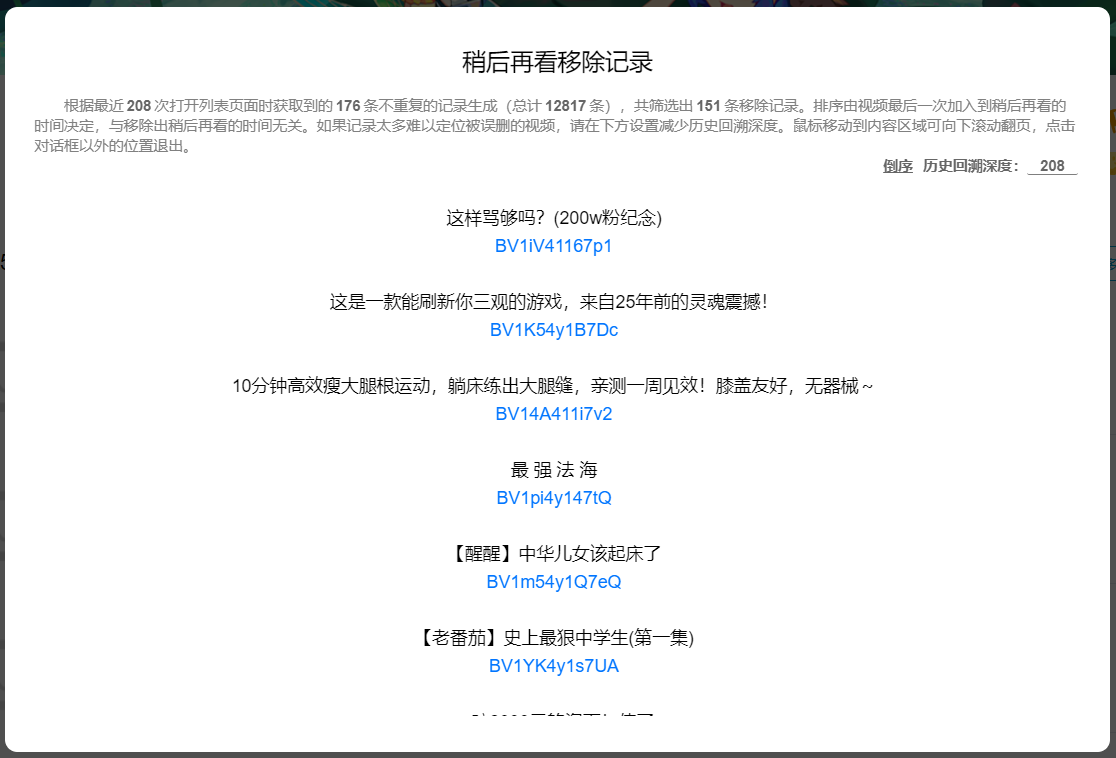
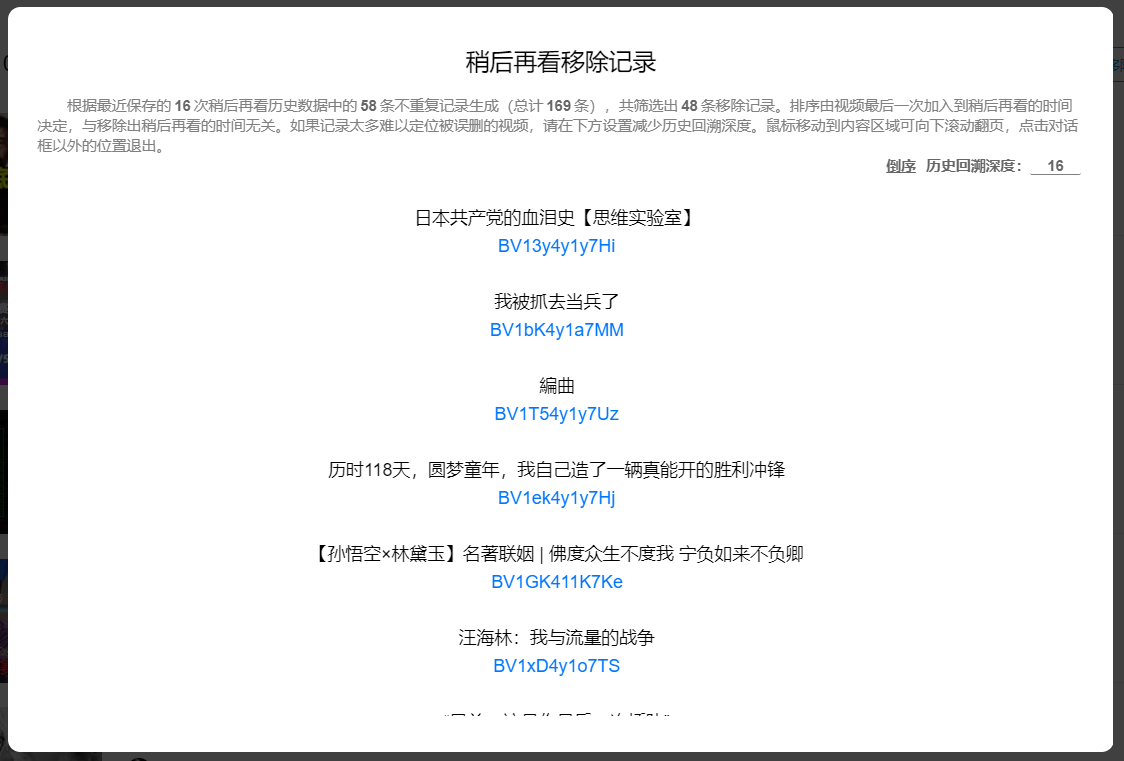
B站稍后再看功能增强
* 明确【稍后再看列表数据】和【稍后再看历史数据】这两个概念，在代码以及 UI 上进行统一
* 配置的极值也编码进 configMap 中
* 对稍后再看列表数据缓存有效期的取值范围进行约束

diff --git a/BilibiliWatchlaterPlus/BilibiliWatchlaterPlus.js b/BilibiliWatchlaterPlus/BilibiliWatchlaterPlus.js
@@ -1,6 +1,6 @@
 // ==UserScript==
 // @name            B站稍后再看功能增强
-// @version         4.7.0.20200922
+// @version         4.7.1.20200923
 // @namespace       laster2800
 // @author          Laster2800
 // @description     与稍后再看功能相关，一切你能想到和想不到的功能
@@ -162,9 +162,9 @@
    * @property {openHeaderMenuLink} openHeaderMenuLink 顶栏弹出菜单链接点击行为
    * @property {menuScrollbarSetting} menuScrollbarSetting 弹出菜单的滚动条设置
    * @property {boolean} removeHistory 稍后再看移除记录
-   * @property {removeHistorySavePoint} removeHistorySavePoint 保存稍后再看数据的时间点
+   * @property {removeHistorySavePoint} removeHistorySavePoint 保存稍后再看历史数据的时间点
    * @property {boolean} removeHistoryFuzzyCompare 开启模糊比对模式以舍弃重复数据
-   * @property {number} removeHistorySaves 稍后再看数据保存次数
+   * @property {number} removeHistorySaves 稍后再看历史数据保存次数
    * @property {number} removeHistorySearchTimes 历史回溯深度
    * @property {fillWatchlaterStatus} fillWatchlaterStatus 填充稍后再看状态
    * @property {boolean} videoButton 视频播放页稍后再看状态快速切换
@@ -187,6 +187,8 @@
    * @property {'checked'|'value'} attr 对应 `DOM` 节点上的属性
    * @property {boolean} [manual] 配置保存时是否需要手动处理
    * @property {boolean} [needNotReload] 配置改变后是否不需要重新加载就能生效
+   * @property {number} [min] 最小值
+   * @property {number} [max] 最大值
    * @property {number} [configVersion] 涉及配置更改的最后配置版本
    */
   /**
@@ -196,9 +198,9 @@
    */
   /**
    * @async
-   * @callback watchlaterListData 通过懒加载方式获取当前稍后再看列表数据
+   * @callback watchlaterListData 通过懒加载方式获取稍后再看列表数据
    * @param {boolean} [reload] 是否重新加载稍后再看列表数据
-   * @returns {Promise<GMObject_data_item0[]>} 当前稍后再看数据
+   * @returns {Promise<GMObject_data_item0[]>} 稍后再看列表数据
    */
   /**
    * `api_queryWatchlaterList` 返回数据中的视频单元
@@ -218,8 +220,8 @@
    */
   /**
    * @typedef GMObject_data
-   * @property {removeHistoryData} removeHistoryData 为生成移除记录而保存的稍后再看数据
-   * @property {watchlaterListData} watchlaterListData 当前稍后再看数据
+   * @property {removeHistoryData} removeHistoryData 为生成移除记录而保存的稍后再看历史数据
+   * @property {watchlaterListData} watchlaterListData 当前稍后再看列表数据
    */
   /**
    * @callback api_videoInfo
@@ -250,9 +252,7 @@
    */
   /**
    * @typedef GMObject_const
-   * @property {number} rhsMin 稍后再看数据最小保存次数
-   * @property {number} rhsMax 稍后再看数据最大保存次数
-   * @property {number} rhsWarning 稍后再看数据保存数警告线
+   * @property {number} rhsWarning 稍后再看历史数据保存数警告线
    * @property {number} fadeTime UI 渐变时间（单位：ms）
    * @property {number} textFadeTime 文字渐变时间（单位：ms）
    */
@@ -294,7 +294,7 @@
       removeHistory: { default: true, attr: 'checked', manual: true },
       removeHistorySavePoint: { default: Enums.removeHistorySavePoint.listAndMenu, attr: 'value', configVersion: 20200815 },
       removeHistoryFuzzyCompare: { default: true, attr: 'checked', needNotReload: true, configVersion: 20200819 },
-      removeHistorySaves: { default: 64, attr: 'value', manual: true, needNotReload: true, configVersion: 20200721 },
+      removeHistorySaves: { default: 64, attr: 'value', min: 1, max: 1024, manual: true, needNotReload: true, configVersion: 20200721 },
       removeHistorySearchTimes: { default: 16, attr: 'value', manual: true, needNotReload: true, configVersion: 20200716 },
       fillWatchlaterStatus: { default: Enums.fillWatchlaterStatus.dynamicAndVideo, attr: 'value', configVersion: 20200819 },
       videoButton: { default: true, attr: 'checked' },
@@ -304,7 +304,7 @@
       forceConsistentVideo: { default: true, attr: 'checked', configVersion: 20200723 },
       removeButton_removeAll: { default: false, attr: 'checked', configVersion: 20200722 },
       removeButton_removeWatched: { default: false, attr: 'checked', configVersion: 20200722 },
-      watchlaterListCacheValidPeriod: { default: 30, attr: 'value', manual: true, needNotReload: true, configVersion: 20200922 },
+      watchlaterListCacheValidPeriod: { default: 30, attr: 'value', max: 9999, manual: true, needNotReload: true, configVersion: 20200922 },
       openSettingAfterConfigUpdate: { default: true, attr: 'checked', configVersion: 20200805 },
       reloadAfterSetting: { default: true, attr: 'checked', needNotReload: true, configVersion: 20200715 },
     },
@@ -332,8 +332,6 @@
       page_dynamicMenu: /\.com\/pages\/nav\/index_new#(?=\/|$)/,
     },
     const: {
-      rhsMin: 1,
-      rhsMax: 1024, // 经过性能测试，放宽到 1024 应该没有太大问题
       rhsWarning: 256,
       fadeTime: 400,
       textFadeTime: 100,
@@ -349,7 +347,7 @@
     },
     error: {
       DOM_PARSE: `DOM解析错误。大部分情况下是由于网络加载速度不足造成的，不影响脚本工作；否则就是B站网页改版，请联系脚本作者进行修改：${GM_info.script.supportURL}`,
-      NETWORK: `网络连接错误，出现这个问题有可能是因为网络加载速度不足或者B站后台API被改动。也不排除是脚本内部数据出错造成的，初始化脚本或清空稍后再看数据也许能解决问题。无法解决请联系脚本作者：${GM_info.script.supportURL}`,
+      NETWORK: `网络连接错误，出现这个问题有可能是因为网络加载速度不足或者B站后台API被改动。也不排除是脚本内部数据出错造成的，初始化脚本或清空稍后再看历史数据也许能解决问题。无法解决请联系脚本作者：${GM_info.script.supportURL}`,
       REDIRECT: `重定向错误，可能是网络问题，如果重新加载页面依然出错请联系脚本作者：${GM_info.script.supportURL}`,
       UNKNOWN: `未知错误，请联系脚本作者：${GM_info.script.supportURL}`,
     },
@@ -447,7 +445,7 @@
                   data.setMaxSize(gm.config.removeHistorySaves)
                 }
               } else {
-                data = new PushQueue(gm.config.removeHistorySaves, gm.const.rhsMax)
+                data = new PushQueue(gm.config.removeHistorySaves, gm.configMap.removeHistorySaves.max)
                 GM_setValue('removeHistoryData', data)
               }
               _.removeHistoryData = data
@@ -551,7 +549,7 @@
               const removeHistoryData = GM_getValue('removeHistoryData')
               if (removeHistoryData) {
                 Object.setPrototypeOf(removeHistoryData, PushQueue.prototype)
-                removeHistoryData.setCapacity(gm.const.rhsMax)
+                removeHistoryData.setCapacity(gm.configMap.removeHistorySaves.max)
                 GM_setValue('removeHistoryData', removeHistoryData)
               }
             } else {
@@ -642,8 +640,8 @@
       if (gm.config.removeHistory) {
         // 稍后再看移除记录
         GM_registerMenuCommand('稍后再看移除记录', () => _self.openRemoveHistory()) // 注意不要直接传函数对象，否则 this 不对
-        // 清空稍后再看数据
-        GM_registerMenuCommand('清空稍后再看数据', () => _self.cleanRemoveHistoryData())
+        // 清空稍后再看历史数据
+        GM_registerMenuCommand('清空稍后再看历史数据', () => _self.cleanRemoveHistoryData())
       }
       // 强制初始化
       GM_registerMenuCommand('初始化脚本', () => _self.resetScript())
@@ -742,7 +740,7 @@
                       </label>
                     </td>
                   </tr>
-                  <tr class="gm-subitem" title="选择在何时保存稍后再看数据。无论选择哪一种方式，在同一个URL对应的页面下至多保存一次。">
+                  <tr class="gm-subitem" title="选择在何时保存稍后再看历史数据。无论选择哪一种方式，在同一个URL对应的页面下至多保存一次。">
                       <td>
                         <div>
                           <span>为了生成移除记录，</span>
@@ -755,7 +753,7 @@
                         </div>
                       </td>
                   </tr>
-                  <tr class="gm-subitem" title="开启模糊比对模式以舍弃重复数据，从而提高数据密度并降低开销，但可能会造成部分记录的遗漏。关闭后，不会判断获取到的稍后再看数据是否重复，直接进行保存。">
+                  <tr class="gm-subitem" title="开启模糊比对模式以舍弃重复数据，从而提高数据密度并降低开销，但可能会造成部分记录的遗漏。关闭后，不会判断获取到的稍后再看列表数据是否重复，直接进行保存。">
                     <td>
                       <label>
                         <span>开启模糊比对模式以舍弃重复数据</span>
@@ -764,17 +762,17 @@
                       </label>
                     </td>
                   </tr>
-                  <tr class="gm-subitem" title="较大的数值可能会带来较大的开销，经过性能测试，作者认为在设置在${gm.const.rhsWarning}以下时，即使在极限情况下也不会产生让人能察觉到的卡顿（存取总时不超过100ms），但在没有特殊要求的情况下依然不建议设置到这么大。该项修改后，会立即对过期记录进行清理，重新修改为原来的值无法还原被清除的记录，设置为比原来小的值需慎重！（范围：${gm.const.rhsMin} ~ ${gm.const.rhsMax}）">
+                  <tr class="gm-subitem" title="较大的数值可能会带来较大的开销，经过性能测试，作者认为在设置在${gm.const.rhsWarning}以下时，即使在极限情况下也不会产生让人能察觉到的卡顿（存取总时不超过100ms），但在没有特殊要求的情况下依然不建议设置到这么大。该项修改后，会立即对过期记录进行清理，重新修改为原来的值无法还原被清除的记录，设置为比原来小的值需慎重！（范围：${gm.configMap.removeHistorySaves.min} ~ ${gm.configMap.removeHistorySaves.max}）">
                     <td>
                       <div>
-                        <span>保存最近多少次稍后再看数据</span>
-                        <span id="gm-cleanRemoveHistoryData" class="gm-hint-option" title="清理已保存的稍后再看数据，不可恢复！">清空数据(0条)</span>
+                        <span>稍后再看历史数据保存次数</span>
+                        <span id="gm-cleanRemoveHistoryData" class="gm-hint-option" title="清理已保存的稍后再看历史数据，不可恢复！">清空数据(0条)</span>
                         <input id="gm-removeHistorySaves" type="text">
                         <span id="gm-rhsWarning" class="gm-warning" title="">⚠</span>
                       </div>
                     </td>
                   </tr>
-                  <tr class="gm-subitem" title="搜寻时在最近多少次稍后再看数据中查找，设置较小的值能较好地定位最近移除的视频。设置较大的值几乎不会对性能造成影响，但不能大于最近稍后再看数据保存次数。">
+                  <tr class="gm-subitem" title="搜寻时在最近保存的多少次稍后再看历史数据中查找，设置较小的值能较好地定位最近移除的视频。设置较大的值几乎不会对性能造成影响，但不能大于最近稍后再看历史数据保存次数。">
                     <td>
                       <div>
                         <span>默认历史回溯深度</span>
@@ -912,7 +910,7 @@
                 <button id="gm-save">保存</button>
                 <button id="gm-cancel">取消</button>
               </div>
-              <div id="gm-reset" title="重置脚本设置及内部数据，也许能解决脚本运行错误的问题。该操作不会清除已保存的稍后再看数据，因此不会导致移除记录丢失。无法解决请联系脚本作者：${GM_info.script.supportURL}">初始化脚本</div>
+              <div id="gm-reset" title="重置脚本设置及内部数据，也许能解决脚本运行错误的问题。该操作不会清除已保存的稍后再看历史数据，因此不会导致移除记录丢失。无法解决请联系脚本作者：${GM_info.script.supportURL}">初始化脚本</div>
               <a id="gm-changelog" title="显示更新日志" href="${gm.url.gm_changelog}" target="_blank">更新日志</a>
             </div>
             <div class="gm-shadow"></div>
@@ -969,7 +967,7 @@
           el.rhfcInformation = gm.el.setting.querySelector('#gm-rhfcInformation')
           api.message.advanced(el.rhfcInformation, `
             <div style="line-height:1.6em">
-              模糊比对模式：设当前时间点获取到的稍后再看数据为A，上一次获取到的稍后再看数据为B。若A与B列表中的第一个视频以及总视频数相同，则认为A与B完全一致，并将A舍弃。
+              模糊比对模式：设当前时间点获取到的稍后再看列表数据为A，上一次获取到的稍后再看列表数据为B。若A与B列表中的第一个视频以及总视频数相同，则认为A与B完全一致，并将A舍弃。
             </div>
           `, '💬', { width: '36em', flagSize: '2em', disabled: () => el.rhfcInformation.parentNode.hasAttribute('disabled') })
           el.fwsInformation = gm.el.setting.querySelector('#gm-fwsInformation')
@@ -989,7 +987,7 @@
           `, '💬', { width: '36em', flagSize: '2em' }) // 谨慎地调这个宽度，不然又会引起字体发虚问题
 
           el.rhWarning = gm.el.setting.querySelector('#gm-rhWarning')
-          api.message.advanced(el.rhWarning, '关闭移除记录，或将稍后再看数据保存次数设置为比原来小的值，都会造成对内部过期历史数据的清理！', '⚠')
+          api.message.advanced(el.rhWarning, '关闭移除记录，或将稍后再看历史数据保存次数设置为比原来小的值，都会造成对内部过期历史数据的清理！', '⚠')
           el.rhsWarning = gm.el.setting.querySelector('#gm-rhsWarning')
           api.message.advanced(el.rhsWarning, `该项设置过大时，在极端情况下可能会造成明显的卡顿，一般不建议该项超过${gm.const.rhsWarning}。当然，如果对机器的读写性能自信，可以无视该警告。`, '⚠')
 
@@ -1035,10 +1033,10 @@
               this.value = ''
             } else {
               let value = parseInt(v0)
-              if (value > gm.const.rhsMax) {
-                value = gm.const.rhsMax
-              } else if (value < gm.const.rhsMin) {
-                value = gm.const.rhsMin
+              if (value > gm.configMap.removeHistorySaves.max) {
+                value = gm.configMap.removeHistorySaves.max
+              } else if (value < gm.configMap.removeHistorySaves.min) {
+                value = gm.configMap.removeHistorySaves.min
               }
               this.value = value
             }
@@ -1061,11 +1059,12 @@
             if (v0 === '') {
               this.value = ''
             } else {
+              // removeHistorySearchTimes 的极值受 removeHistorySaves 约束
               let value = parseInt(v0)
-              if (value > gm.const.rhsMax) {
-                value = gm.const.rhsMax
-              } else if (value < gm.const.rhsMin) {
-                value = gm.const.rhsMin
+              if (value > gm.configMap.removeHistorySaves.max) {
+                value = gm.configMap.removeHistorySaves.max
+              } else if (value < gm.configMap.removeHistorySaves.min) {
+                value = gm.configMap.removeHistorySaves.min
               }
               this.value = value
             }
@@ -1084,6 +1083,12 @@
             const v0 = this.value.replace(/[^\d]/g, '')
             if (v0 === '') {
               this.value = ''
+            } else {
+              let value = parseInt(v0)
+              if (value > gm.configMap.watchlaterListCacheValidPeriod.max) {
+                value = gm.configMap.watchlaterListCacheValidPeriod.max
+              }
+              this.value = value
             }
           }
           el.watchlaterListCacheValidPeriod.onblur = function() {
@@ -1337,10 +1342,10 @@
             <div class="gm-history-page">
               <div class="gm-title">稍后再看移除记录</div>
               <div class="gm-comment">
-                <div>根据最近<span id="gm-save-times">0</span>次打开列表页面时获取到的<span id="gm-record-num">0</span>条不重复的记录生成（总计<span id="gm-record-num-repeat">0</span>条），共筛选出<span id="gm-remove-num">0</span>条移除记录。排序由视频最后一次加入到稍后再看的时间决定，与移除出稍后再看的时间无关。如果记录太多难以定位被误删的视频，请在下方设置减少历史回溯深度。鼠标移动到内容区域可向下滚动翻页，点击对话框以外的位置退出。</div>
+                <div>根据最近保存的<span id="gm-save-times">0</span>次稍后再看历史数据中的<span id="gm-record-num">0</span>条不重复记录生成（总计<span id="gm-record-num-repeat">0</span>条），共筛选出<span id="gm-remove-num">0</span>条移除记录。排序由视频最后一次加入到稍后再看的时间决定，与移除出稍后再看的时间无关。如果记录太多难以定位被误删的视频，请在下方设置减少历史回溯深度。鼠标移动到内容区域可向下滚动翻页，点击对话框以外的位置退出。</div>
                 <div style="text-align:right;font-weight:bold">
                   <span id="gm-history-sort" style="text-decoration:underline;cursor:pointer">倒序</span>
-                  <span title="搜寻时在最近多少次稍后再看数据中查找，设置较小的值能较好地定位最近移除的视频。按下回车键或输入框失去焦点时刷新数据，输入框为空时自动设为可取的最大值。">历史回溯深度：<input type="text" id="gm-search-times" value="0"></span>
+                  <span title="搜寻时在最近保存的多少次稍后再看历史数据中查找，设置较小的值能较好地定位最近移除的视频。按下回车键或输入框失去焦点时刷新数据，输入框为空时自动设为可取的最大值。">历史回溯深度：<input type="text" id="gm-search-times" value="0"></span>
                 </div>
               </div>
             </div>
@@ -1480,7 +1485,7 @@
               }
               el.content.innerHTML = result.join('<br>')
             } else {
-              el.content.innerText = `在最近 ${el.searchTimes.current} 次稍后再看数据中没有找到被移除的记录，请尝试增大历史回溯深度`
+              el.content.innerText = `在最近保存的 ${el.searchTimes.current} 次稍后再看历史数据中没有找到被移除的记录，请尝试增大历史回溯深度`
               el.content.style.color = 'gray'
             }
             el.content.style.opacity = '1'
@@ -1508,7 +1513,7 @@
      * 初始化脚本
      */
     resetScript() {
-      const result = confirm(`【${GM_info.script.name}】\n\n是否要初始化脚本？\n\n注意：本操作不会清理内部保存的稍后再看数据，要清理稍后再看数据请在用户设置中操作。`)
+      const result = confirm(`【${GM_info.script.name}】\n\n是否要初始化脚本？\n\n注意：本操作不会清理内部保存的稍后再看历史数据，要清理稍后再看历史数据请在用户设置中操作。`)
       if (result) {
         const keyNoReset = { removeHistorySaves: true, removeHistoryData: true }
         const gmKeys = GM_listValues()
@@ -1527,7 +1532,7 @@
      * 清空 removeHistoryData
      */
     cleanRemoveHistoryData() {
-      const result = confirm(`【${GM_info.script.name}】\n\n是否要清空稍后再看数据？`)
+      const result = confirm(`【${GM_info.script.name}】\n\n是否要清空稍后再看历史数据？`)
       if (result) {
         this.closeMenuItem('setting')
         GM_deleteValue('removeHistorySaves')
@@ -1712,7 +1717,9 @@
         },
 
         /**
-         * 保存稍后再看数据，用于后续操作
+         * 保存稍后再看列表数据，用于后续操作
+         *
+         * 此操作回引起稍后再看历史数据的保存
          * @async
          * @param {boolean} [reload] 是否重新加载稍后再看列表数据
          */
@@ -1760,10 +1767,10 @@
         },
 
         /**
-         * 获取稍后再看数据以 `aid` 为键的映射
+         * 获取稍后再看列表数据以 `aid` 为键的映射
          * @async
          * @param {boolean} [reload] 是否重新加载稍后再看列表数据
-         * @returns {Map<string, GMObject_data_item0>} 稍后再看数据以 `aid` 为键的映射
+         * @returns {Map<string, GMObject_data_item0>} 稍后再看列表数据以 `aid` 为键的映射
          */
         async getWatchlaterDataMap(reload) {
           const _ = this._
@@ -2865,10 +2872,11 @@
     }
 
     /**
-     * 根据 `removeHistorySavePoint` 保存稍后再看数据
+     * 根据 `removeHistorySavePoint` 保存稍后再看历史数据
      */
     processWatchlaterListDataSaving() {
       const _self = this
+      // 执行列表数据的保存会引起历史数据的保存
       switch (gm.config.removeHistorySavePoint) {
         case Enums.removeHistorySavePoint.list:
           if (api.web.urlMatch(gm.regex.page_watchlaterList)) {

diff --git a/BilibiliWatchlaterPlus/changelog.md b/BilibiliWatchlaterPlus/changelog.md
@@ -4,9 +4,10 @@
 
 ## V4.7
 
-1. 脚本：对稍后再看列表数据进行缓存，在缓存的有效期内将会使用缓存来代替网络请求，除非有必要确保数据的正确性。
-2. 功能实现：对稍后再看列表数据缓存有效期进行设置。
-3. 代码：配置的默认值硬编码进 configMap 中，而不再作为脚本常量看待。
+1. 脚本：明确【稍后再看列表数据】和【稍后再看历史数据】这两个概念，在代码以及 UI 上进行统一。其中，前者指单次获取到稍后再看列表数据，大部分情况下特指当前时间点获取到的稍后再看列表数据；后者是前者的历史集合。
+2. 脚本：对稍后再看列表数据进行缓存，在缓存的有效期内将会使用缓存来代替网络请求，除非有必要确保数据的正确性。
+3. 功能实现：对稍后再看列表数据缓存有效期进行设置。
+4. 代码：配置默认值、极值硬编码进 configMap 中，而不再作为脚本常量看待。
 
 ## V4.6
 
@@ -23,7 +24,7 @@
 ## V4.4
 
 1. 功能实现：在动态页面、视频播放页面，甚至更多地方填充缺失的稍后再看状态信息。
-2. 移除记录：支持稍后再看数据的模糊比对，舍弃可能重复的数据。
+2. 移除记录：支持稍后再看列表数据的模糊比对，舍弃可能重复的数据。
 3. 功能性更新设置：高亮显示更新涉及到的功能。
 
 ## V4.3
@@ -36,11 +37,11 @@
 ## V4.2
 
 1. 脚本：设置页重做，采用更为合理的 DOM 结构，方便以后扩展。
-2. 移除记录：现在这个功能不再局限于列表页面，而是作为全局功能，用户可以设置在什么时间点保存稍后再看数据。
+2. 移除记录：现在这个功能不再局限于列表页面，而是作为全局功能，用户可以设置在什么时间点保存稍后再看历史数据。
 
 ## V4.1
 
-1. 脚本：当前稍后再看数据的获取，改为懒加载方式，为后面要实现的功能开路。
+1. 脚本：当前稍后再看列表数据的获取，改为懒加载方式，为后面要实现的功能开路。
 2. 脚本：对于脚本在 URL 中引入的查询参数，现在会在读取后移除以避免产生不好的用户体验。
 3. 确保视频一致性：若打开稍后再看模式播放页时，目标视频不在稍后再看中，询问是否跳转到普通模式播放。
 4. 移除记录：修复警告项在不恰当时候出现的问题，修复警告信息框显示效果错误的问题。
@@ -149,7 +150,7 @@
 1. 功能实现：重置脚本。
 2. 移除记录：稍后再看记录功能更改定位为移除记录，并大幅增强功能功能，使其可保留多个版本的历史信息，并通过对比直接显示出当前移除了哪些视频。
 3. UI：大幅优化，包括且不限于增加动画效果，为用户提供更好的体验。
-4. API：实现 `PushQueue` API，用于保存稍后再看列表页面数据。
+4. API：实现 `PushQueue` API，用于保存稍后再看历史数据。
 
 ## V2.0
 
